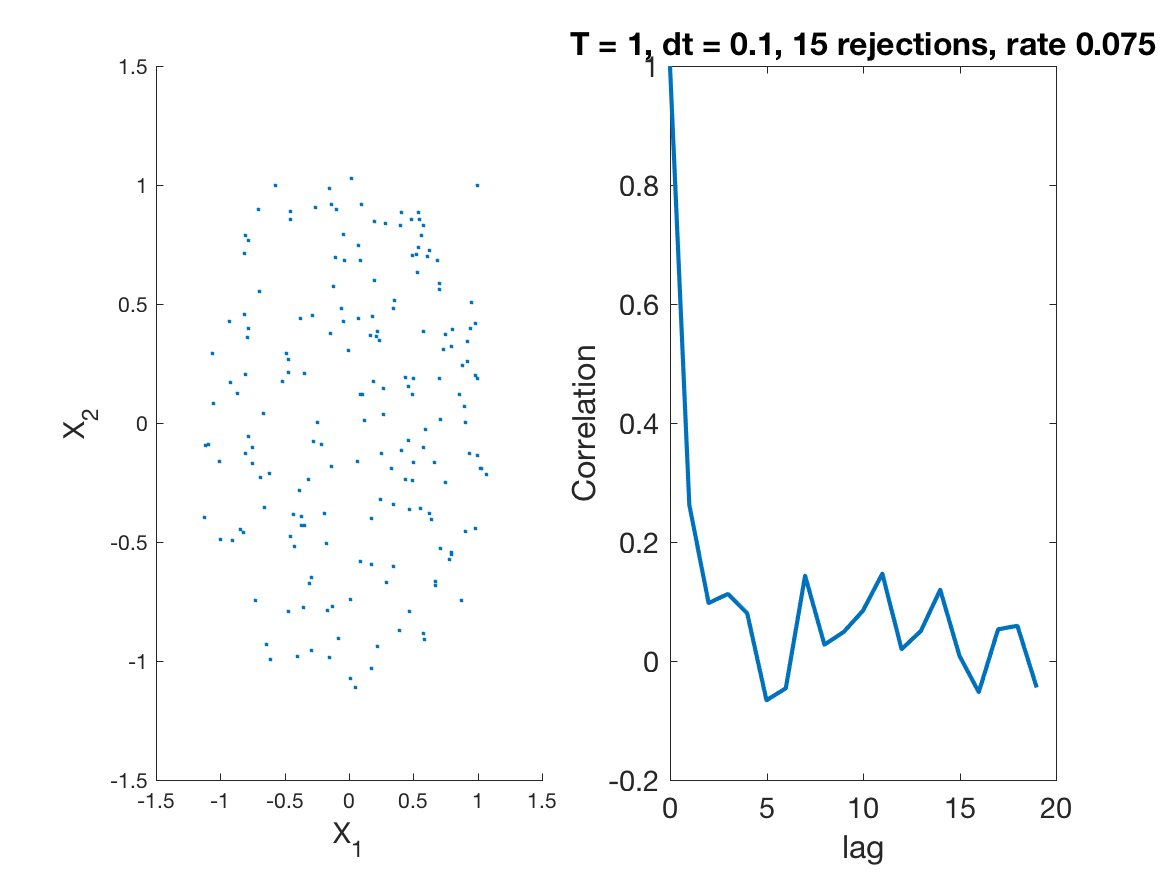
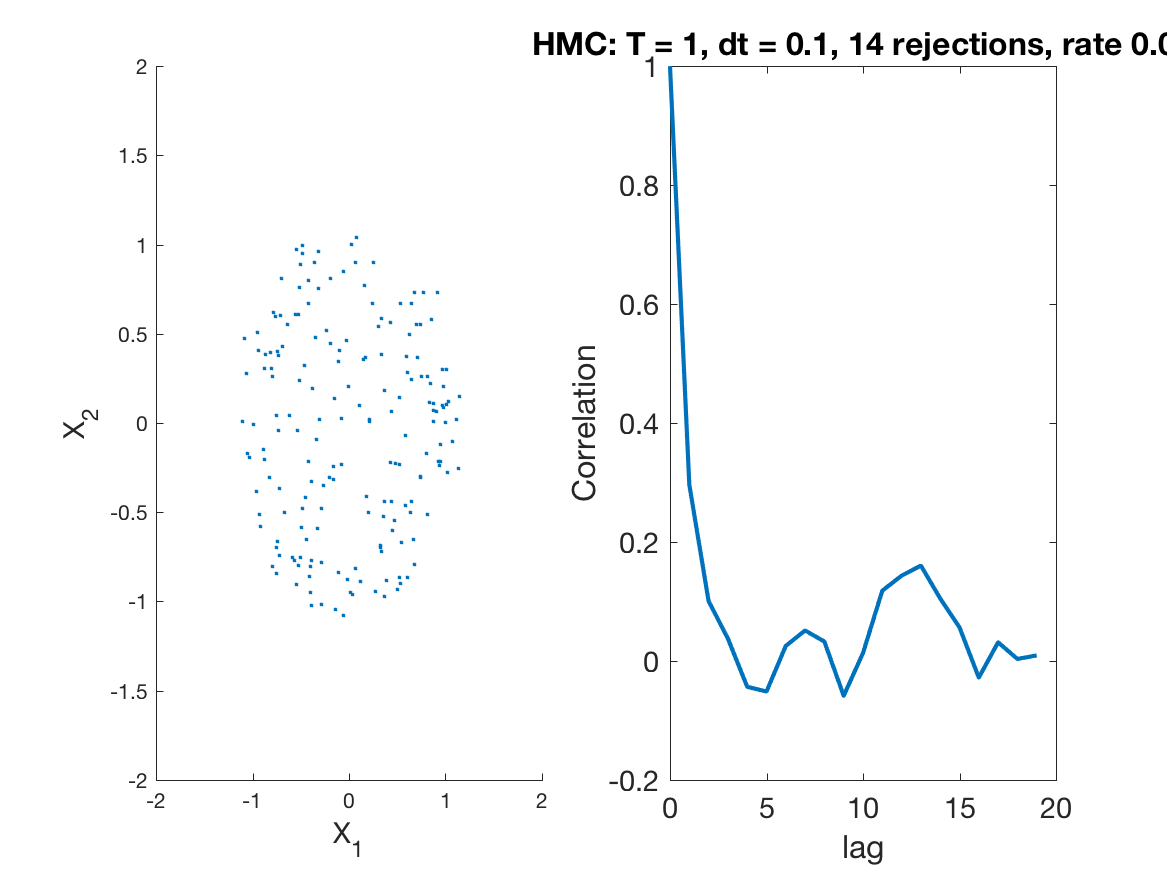
MALA solved (initial condition) progress and cleaning

diff --git a/Matlab_code/main6_comparison_RW_MALA_HMC.m b/Matlab_code/main6_comparison_RW_MALA_HMC.m
@@ -17,7 +17,8 @@ fprintf('@@@@@@@@@@@@@@@@@@@@@@@@@@@@@@@@@\n');
 
 % choose initial seed, comment out to turn off, see help rng
 % seed=0;
-% rng(seed);
+%rng(seed);
+
 myFontSize = 14;
 
 lag  = 0:19;
@@ -28,16 +29,15 @@ d = 3;
 % radius
 r = @(x) norm(x, 2);
 % potential: notation from the paper- mathcal{L} = -V
-V = @(x) 0.5 * k * (r(x) - 1)^2; %debug 0.5* x'*x;%
+V = @(x) 0.5 * k * (r(x) - 1)^2; 
 % gradient of the potential
-%debug with dV = @(x) x;%
-dV = @(x) k * (r(x) - 1).*x./r(x);%k * (r(x) - 1).*sign(x);
+diffV = @(x) dV(x, k, d);
 % target probability density
 rho = @(x) exp(- V(x));
 
 % initial condition 
-X0 = ones(d, 1);
-
+X0 = zeros(d, 1);
+X0(1) = 1; 
 %% Random Walk
 % step size
 h = 0.5;
@@ -56,8 +56,8 @@ subplot(1,2,1)
 scatter(X(1,:), X(2,:),  2)
 xlabel('X_1', 'FontSize', myFontSize)
 ylabel('X_2', 'FontSize', myFontSize)
-xlim([-1.5, 1.5])
-ylim([-1.5, 1.5])
+xlim([-2, 2])
+ylim([-2, 2])
 
 
 subplot(1,2,2)
@@ -66,12 +66,11 @@ xlabel('lag', 'FontSize', myFontSize)
 ylabel('Correlation', 'FontSize', myFontSize)
 ylim([0,1])
 xlim([0,max(lag)])
-title(['h = ', num2str(h),', ',num2str(rejections), ' rejections, rate ', num2str(rejections / length(X))])
+title(['RW: h = ', num2str(h),', ',num2str(rejections), ' rejections, rate ', num2str(rejections / length(X))])
 set(gca, 'FontSize', myFontSize)
 
 %%
-virial = mean(X.*dV(X)) ;
-confTempRW = mean(virial');
+confTempRW = compute_configurational_temperature(X, diffV);
 fprintf('RW: configurational temperature is %f\n', confTempRW );
 
 %%
@@ -80,18 +79,17 @@ print(f14,'figures/figure14','-dpng')
 %%
 % %% MALA
 % % step size
-h = 0.0001;
-numberOfSteps = 20000;
+h = 0.25;
+numberOfSteps = 2000;
 
 fprintf('Sampling with MALA\n');
  
-[X, rejections] = sample_MALA(numberOfSteps, h, V, dV , X0);
+[X, rejections] = sample_MALA(numberOfSteps, h, V, diffV , X0);
     
 rho_nu = compute_empirical_auto_correlation_coeff(X(1,:), lag);
 
 %%
-virial = mean(X.*dV(X)) ;
-confTempMALA = mean(virial');
+confTempMALA = compute_configurational_temperature(X, diffV);
 fprintf('MALA: configurational temperature is %f\n', confTempMALA );
 
 %%
@@ -102,8 +100,8 @@ subplot(1,2,1)
 scatter(X(1,:), X(2,:),  2)
 xlabel('X_1', 'FontSize', myFontSize)
 ylabel('X_2', 'FontSize', myFontSize)
-xlim([-1.5, 1.5])
-ylim([-1.5, 1.5])
+xlim([-2, 2])
+ylim([-2, 2])
 
 
 subplot(1,2,2)
@@ -112,7 +110,7 @@ xlabel('lag', 'FontSize', myFontSize)
 ylabel('Correlation', 'FontSize', myFontSize)
 %ylim([0,1])
 xlim([0,max(lag)])
-title(['h = ', num2str(h),', ',num2str(rejections), ' rejections, rate ', num2str(rejections / length(X))])
+title(['MALA: h = ', num2str(h),', ',num2str(rejections), ' rejections, rate ', num2str(rejections / length(X))])
 set(gca, 'FontSize', myFontSize)
 
 
@@ -127,18 +125,16 @@ numberOfSteps = 200;
 
 fprintf('Sampling with HMC\n');
 
-%X  = sample_Langevin(numberOfSteps, dt, dV , X0, zeros(size(X0)));
-[X, rejections] = sample_HMC(numberOfSteps, dt, T, V, dV , X0);
+%X  = sample_Langevin(numberOfSteps, dt, diffV , X0, zeros(size(X0)));
+[X, rejections] = sample_HMC(numberOfSteps, dt, T, V, diffV , X0);
 
 rho_nu = compute_empirical_auto_correlation_coeff(X(1,:), lag);
 
 %%
 
-virial = mean(X.*dV(X));
-confTempHMC = mean(virial');
+
+confTempHMC = compute_configurational_temperature(X, diffV);
 fprintf('HMC: configurational temperature is %f\n', confTempHMC );
-
-
 
 %%
 f16 = figure(16);
@@ -148,9 +144,8 @@ subplot(1,2,1)
 scatter(X(1,:), X(2,:),  2)
 xlabel('X_1', 'FontSize', myFontSize)
 ylabel('X_2', 'FontSize', myFontSize)
-xlim([-1.5, 1.5])
-ylim([-1.5, 1.5])
-
+xlim([-2, 2])
+ylim([-2, 2])
 
 subplot(1,2,2)
 plot(lag, rho_nu, 'LineWidth', 2)
@@ -158,9 +153,8 @@ xlabel('lag', 'FontSize', myFontSize)
 ylabel('Correlation', 'FontSize', myFontSize)
 %ylim([0,1])
 %xlim([0,max(lag)])
-title(['T = ', num2str(T),', dt = ', num2str(dt),', ',num2str(rejections), ' rejections, rate ', num2str(rejections / length(X))])
+title(['HMC: T = ', num2str(T),', dt = ', num2str(dt),', ',num2str(rejections), ' rejections, rate ', num2str(rejections / length(X))])
 set(gca, 'FontSize', myFontSize)
-
 
 %%
 print(f16,'figures/figure16','-dpng')

diff --git a/Matlab_code/main5_comparisonMALAandRW.m b/Matlab_code/main5_comparisonMALAandRW.m
@@ -28,20 +28,19 @@ d = 100;
 % radius
 r = @(x)  norm(x, 2);
 % potential: notation from the paper- mathcal{L} = -V
-V = @(x) 0.5 * k * (r(x) - 1)^2; %debug 0.5* x'*x;%
+V = @(x) 0.5 * k * (r(x) - 1)^2; 
 % gradient of the potential
-%debug with dV = @(x) x;%
-dV = @(x) k * (r(x) - 1).* x/r(x);%k * (r(x) - 1).*sign(x);
+diffV = @(x) dV(x, k, d);
 % target probability density
 rho = @(x) exp(- V(x));
 
 % initial condition 
-X0 = ones(d, 1);
-
+X0 = zeros(d, 1);
+X0(1) = 1; 
 %% Random Walk
 % step size
 h = 0.025;
-numberOfSteps = 10000;
+numberOfSteps = 500;
 
 f11 = figure(11);
 hold on
@@ -56,9 +55,8 @@ subplot(1,2,1)
 scatter(X(1,:), X(2,:),  2)
 xlabel('X_1', 'FontSize', myFontSize)
 ylabel('X_2', 'FontSize', myFontSize)
-xlim([-1.5, 1.5])
-ylim([-1.5, 1.5])
-
+xlim([-2, 2])
+ylim([-2, 2])
 
 subplot(1,2,2)
 plot(lag, rho_nu, 'LineWidth', 2)
@@ -70,8 +68,8 @@ title(['h = ', num2str(h),', ',num2str(rejections), ' rejections, rate ', num2st
 set(gca, 'FontSize', myFontSize)
 
 %%
-virial = mean(X.*dV(X)) ;
-confTempRW = mean(virial');
+
+confTempRW = compute_configurational_temperature(X, diffV);
 fprintf('RW: configurational temperature is %f\n', confTempRW );
 
 %%
@@ -81,18 +79,18 @@ print(f11,'figures/figure11','-dpng')
 % %% MALA
 % % step size
 
-h = 0.0000001;
-numberOfSteps = 10000;
+h = 0.1;
+numberOfSteps = 100;
 
 fprintf('Sampling with MALA\n');
  
-[X, rejections] = sample_MALA(numberOfSteps, h, V, dV , X0);
+[X, rejections] = sample_MALA(numberOfSteps, h, V, diffV , X0);
     
 rho_nu = compute_empirical_auto_correlation_coeff(X(1,:), lag);
 
 %%
-virial = mean(X.*dV(X)) ;
-confTempMALA = mean(virial');
+
+confTempMALA = compute_configurational_temperature(X, diffV);
 fprintf('MALA: configurational temperature is %f\n', confTempMALA );
 
 %%
@@ -103,8 +101,8 @@ subplot(1,2,1)
 scatter(X(1,:), X(2,:),  2)
 xlabel('X_1', 'FontSize', myFontSize)
 ylabel('X_2', 'FontSize', myFontSize)
-xlim([-1.5, 1.5])
-ylim([-1.5, 1.5])
+xlim([-2, 2])
+ylim([-2, 2])
 
 
 subplot(1,2,2)

diff --git a/Matlab_code/main1_sample_MetropolisRW.m b/Matlab_code/main1_sample_MetropolisRW.m
@@ -46,6 +46,7 @@ X = zeros(1, N);
 Z = randn(1, N);
 U = rand(1, N);
 
+fprintf('Sampling RW\n')
 
 for n = 1 : N - 1
     
@@ -64,6 +65,8 @@ for n = 1 : N - 1
     
 end
 
+fprintf('sampling done\n')
+
 %% show histogram
 
 myFontSize = 14;
@@ -77,11 +80,12 @@ set(gca, 'FontSize', myFontSize)
 print(f6,'figures/figure6','-dpng')
 
 %% tasks: 
-% 1) fit the target density on the histogram
-% 2) comment out the Metropolis step, and rerun the sampling only with the random walk proposal, what happens?
+% 1) fit the target density on the histogram, create plot of X over steps
+% 2) comment out the Metropolis step, and rerun the sampling only with the
+% random walk proposal, create plot of X over steps
 
 %% Answers:
-% 1) fit the target density
+%% 1) fit the target density
 
 figure(66)
 h = histogram(X, 20, 'Normalization','pdf');
@@ -94,5 +98,11 @@ plot(binEdges, rho(binEdges)/normalizationConstant, 'LineWidth', 3)
 xlabel('X', 'FontSize', myFontSize)
 ylabel('Density', 'FontSize', myFontSize)
 set(gca, 'FontSize', myFontSize)
+
+%% plot X over steps
+figure(666)
+plot(1:length(X),X)
+xlabel('steps')
+ylabel('X')
 
 

diff --git a/Matlab_code/functions/sample_MALA.m b/Matlab_code/functions/sample_MALA.m
@@ -7,7 +7,8 @@ function [X, rejections] = sample_MALA(N, h, V, dV , X0)
 %              initial condition X0 of size (d,1)
 % return : trajectory X, array (d,N)
 
-dt = sqrt(h);%0.5*h^2;
+dt = 0.5*h^2;
+fprintf('Mala step size is %f\n', dt)
 rejections = 0 ;
 
 % determine dimension from the initial condition
@@ -26,7 +27,7 @@ for n = 1 : N - 1
     % proposal 
     Z = normrnd(0,1, size(xn));
     
-    xn = xn - 0.5 * dV(xn) * dt + sqrt(  dt) * Z;
+    xn = xn - 0.5 * dV(xn) * dt + sqrt(dt) * Z;
     
     X(:,n+1) = xn;
     

diff --git a/Matlab_code/main2_autocorrelation.m b/Matlab_code/main2_autocorrelation.m
@@ -51,9 +51,10 @@ for stepSize = h
     i = i+1;
 
     [X, rejections] = sample_MetropolisRW(N, stepSize, rho, X0);
-    
+    %%%%% compute_empirical_auto_correlation_coeff
     rho_nu = compute_empirical_auto_correlation_coeff(X, lag);
-   
+    %%%%%%%%%%%%%%%%%%%%%%%
+    
     subplot(2,2,i)
     plot(lag, rho_nu, 'LineWidth', 2)
     xlabel('lag', 'FontSize', myFontSize)

diff --git a/Matlab_code/functions/TproposalMALA.m b/Matlab_code/functions/TproposalMALA.m
@@ -1,7 +1,7 @@
-function prop = TproposalMALA(pNew, pOld,  dV, t)
+function prop = TproposalMALA(qNew, qOld,  dV, t)
 
 
-     Tx = pNew - pOld + 0.5 * t *dV(pOld);
+     Tx = qNew - qOld + 0.5 * t *dV(qOld);
      
      Tabs = (Tx'*Tx ) / ( t);
      prop =   exp(-Tabs / 2.0);

diff --git a/Matlab_code/functions/compute_configurational_temperature.m b/Matlab_code/functions/compute_configurational_temperature.m
@@ -1,0 +1,14 @@
+function cft = compute_configurational_temperature(X, dV)
+
+f = -dV(X);
+
+[d, nr] = size(X);
+cft=0;
+for i=1:nr
+    
+   cft = cft - X(:,i).' * f(:,i); 
+end
+cft = cft / nr / d;
+
+
+end

diff --git a/Matlab_code/functions/dV.m b/Matlab_code/functions/dV.m
@@ -1,0 +1,13 @@
+function res  = dV(x, k, d)
+
+
+% radius
+r = @(x) norm(x, 2);
+% gradient of the potential
+
+if r(x) ==0
+    res=zeros(size(x));
+  else  
+    res =k * (r(x) - 1).*x./r(x);
+end
+end
